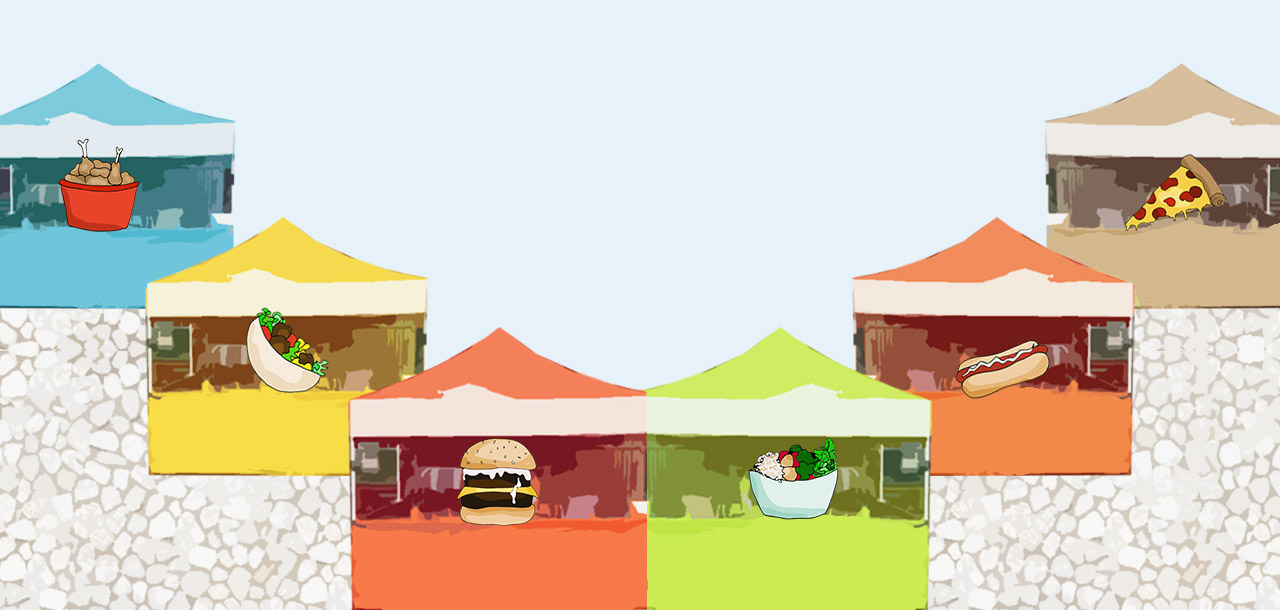
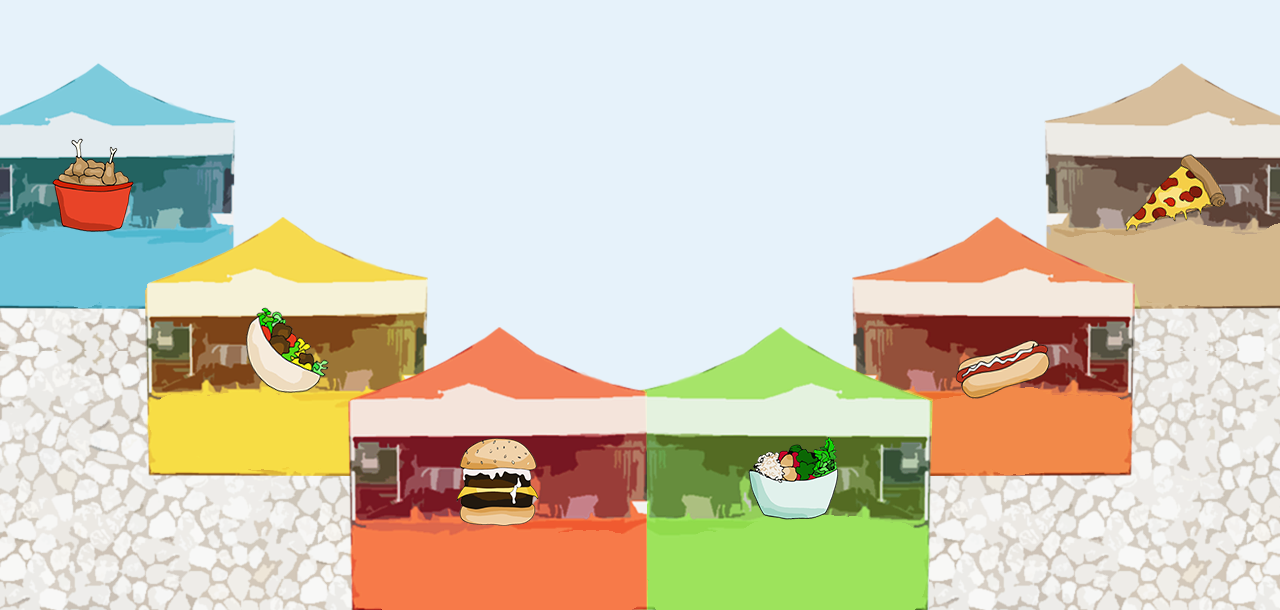
buy
added “buy” option

diff --git a/sketch.js b/sketch.js
@@ -10,6 +10,7 @@ var currentPage = "intro";
 //general images
 var nycImg;
 var foodcourtImg;
+var buyImg;
 //food images
 var nuggetsImg;
 var falafelImg;
@@ -41,10 +42,12 @@ var chickpea1Img;
 var chickpea2Img;
 var chickpea3Img;
 
+
 // images
 function preload() {
 	nycImg = loadImage("images/nyc.jpg");
 	foodcourtImg = loadImage("images/foodcourt.png");
+	buyImg = loadImage("images/buy.png");
 	nuggetsImg = loadImage("images/nuggets.png");
 	falafelImg = loadImage("images/falafel.png");
 	burgerImg = loadImage("images/burger.png");
@@ -149,52 +152,22 @@ function draw() {
 function drawPageIntro() {
 	image(foodcourtImg, 0, 0);
 	if (visitedBurger === true) {
-		noStroke();
-		rect(40, 330, 80, 20);
-		textSize(20);
-		textFont("Georgia");
-		fill(0);
-		text("BUY", 50, 340);
+		image(buyImg, 465, 537);
 	}
 	if (visitedNuggets === true) {
-		noStroke();
-		rect(40, 330, 80, 20);
-		textSize(20);
-		textFont("Georgia");
-		fill(0);
-		text("BUY", 50, 340);
+		image(buyImg, 59, 235);
 	}
 	if (visitedFalafel === true) {
-		noStroke();
-		rect(40, 330, 80, 20);
-		textSize(20);
-		textFont("Georgia");
-		fill(0);
-		text("BUY", 50, 340);
+		image(buyImg, 256, 400);
 	}
 	if (visitedBowl === true) {
-		noStroke();
-		rect(40, 330, 80, 20);
-		textSize(20);
-		textFont("Georgia");
-		fill(0);
-		text("BUY", 50, 340);
+		image(buyImg, 761, 537);
 	}
 	if (visitedHotdog === true) {
-		noStroke();
-		rect(40, 330, 80, 20);
-		textSize(20);
-		textFont("Georgia");
-		fill(0);
-		text("BUY", 50, 340);
+		image(buyImg, 967, 400);
 	}
 	if (visitedPizza === true) {
-		noStroke();
-		rect(40, 330, 80, 20);
-		textSize(20);
-		textFont("Georgia");
-		fill(0);
-		text("BUY", 50, 340);
+		image(buyImg, 1140, 235);
 	}
 }
 
